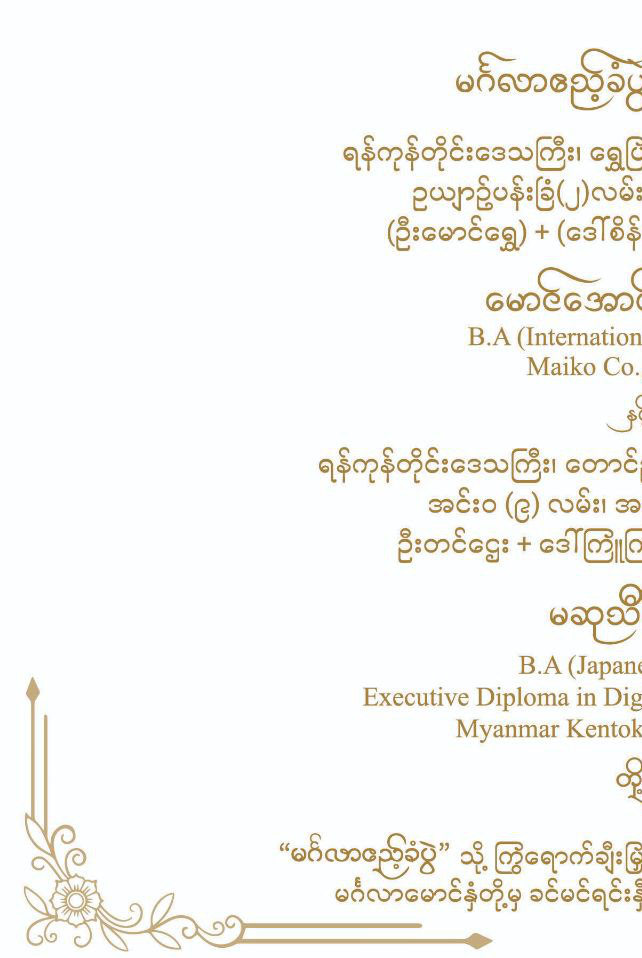
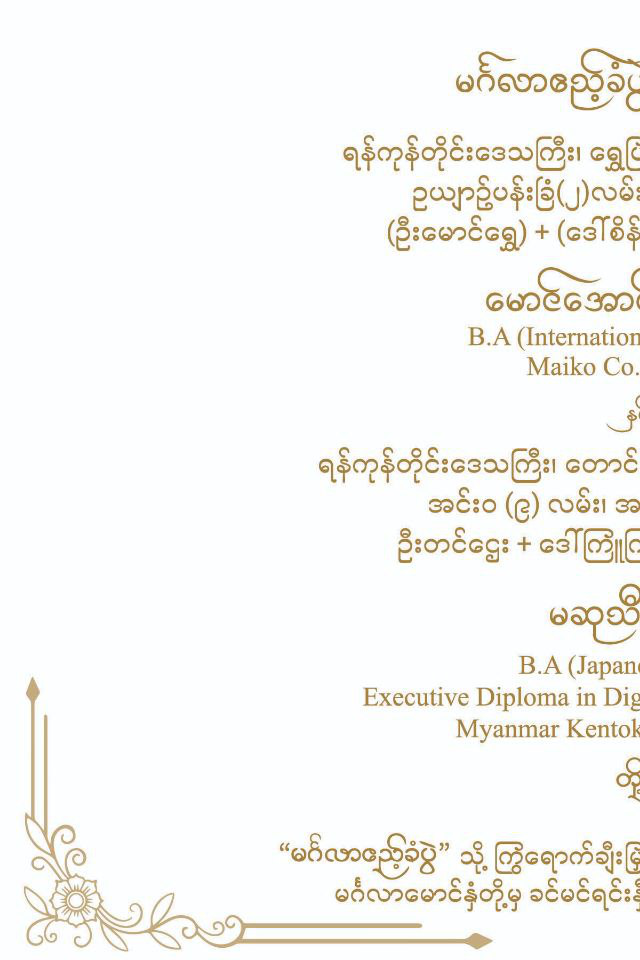
add bg

Changed region(s): [[0.5, 0.4238, 1.0, 0.8476], [0.5312, 0.0303, 1.0, 0.3935], [0.0312, 0.8476, 1.0, 0.999]]

diff --git a/src/app/app.component.ts b/src/app/app.component.ts
@@ -1,4 +1,4 @@
-import { AfterViewInit, Component, ViewChildren, QueryList, ElementRef } from '@angular/core';
+import { AfterViewInit, Component, ViewChildren, QueryList, ElementRef, ViewChild, Renderer2 } from '@angular/core';
 
 @Component({
   selector: 'app-root',
@@ -7,8 +7,11 @@ import { AfterViewInit, Component, ViewChildren, QueryList, ElementRef } from '@
 })
 export class AppComponent {
   title = 'invitation';
-  // @ViewChildren('page') pages!: QueryList<ElementRef>;
+  @ViewChild('childDiv') childDiv!: ElementRef;
+  @ViewChild('childDiv2') childDiv2!: ElementRef;
+  @ViewChild('parentDiv') parentDiv!: ElementRef;
 
+  constructor(private renderer: Renderer2){}
 
   open() {
     const element = document.getElementById('envelope');
@@ -43,45 +46,11 @@ export class AppComponent {
     audio.play();
   }
 
-
-  // images: string[] = [
-  //   '../assets/1.JPG',
-  //   '../assets/2.JPG',
-  //   '../assets/3.JPG',
-  //   '../assets/4.JPG'
-  // ];
-
-  // ngAfterViewInit() {
-  //   const pagesArray = this.pages.toArray().map(el => el.nativeElement);
-
-  //   // Set zIndex for even pages
-  //   pagesArray.forEach((page, i) => {
-  //     if (i % 2 === 0) {
-  //       page.style.zIndex = (pagesArray.length - i).toString();
-  //     }
-  //     page.dataset.pageNum = (i + 1).toString();
-  //   });
-  // }
-
-  // onPageClick(event: Event) {
-  //   const page = event.target as HTMLElement | null;
-
-  //   if (!page) return; // Ensure it's not null
-
-  //   const pageNum = Number(page.dataset['pageNum']);
-
-  //   if (pageNum % 2 === 0) {
-  //     page.classList.remove('flipped');
-  //     (page.previousElementSibling as HTMLElement)?.classList.remove('flipped');
-  //   } else {
-  //     page.classList.add('flipped');
-  //     (page.nextElementSibling as HTMLElement)?.classList.add('flipped');
-  //   }
-  // }
-
   click1() {
     const element = document.getElementById('page1');
     const element2 = document.getElementById('page2');
+
+    
 
     if (element) {
       element.classList.toggle('flipped');
@@ -90,6 +59,18 @@ export class AppComponent {
     if (element2) {
       element2.classList.remove('incz');
 
+    }
+
+    const child = this.childDiv.nativeElement;
+    const child2 = this.childDiv2.nativeElement;
+    const parent = this.parentDiv.nativeElement;
+
+    if (child.classList.contains('flipped') && !child2.classList.contains('flipped')) {
+      setTimeout(() => {
+        this.renderer.addClass(parent, 'active-parent');
+      },1000);
+    } else {
+      this.renderer.removeClass(parent, 'active-parent');
     }
   }
 
@@ -105,6 +86,18 @@ export class AppComponent {
     if (element1) {
       element1.classList.add('incz');
 
+    }
+
+    const child = this.childDiv.nativeElement;
+    const child2 = this.childDiv2.nativeElement;
+    const parent = this.parentDiv.nativeElement;
+
+    if (child.classList.contains('flipped') && child2.classList.contains('flipped')) {
+      this.renderer.removeClass(parent, 'active-parent');
+    } else {
+      setTimeout(() => {
+        this.renderer.addClass(parent, 'active-parent');
+      },1000);
     }
   }
 }

diff --git a/src/app/app.component.html b/src/app/app.component.html
@@ -20,8 +20,8 @@
     <img src="../assets/wax.png" class="wax" alt="">
     <div class="front flap"></div>
     <div class="front pocket"></div>
-    <div class="letter">
-          <div (click)="click1()" class="img1" id="page1">
+    <div class="letter" #parentDiv>
+          <div (click)="click1()" class="img1" id="page1" #childDiv>
             <div class="front">
               <img src="../assets/1.png" alt="">
               <svg width="70" height="70" viewBox="0 0 640 640" fill="none" xmlns="http://www.w3.org/2000/svg" class="hand hand2">
@@ -59,7 +59,7 @@
               </svg>
             </div>
           </div>
-          <div (click)="click2()" class="img2" id="page2">
+          <div (click)="click2()" class="img2" id="page2" #childDiv2>
             <div class="front">
               <img src="../assets/3.png" alt="">
               <svg width="70" height="70" viewBox="0 0 640 640" fill="none" xmlns="http://www.w3.org/2000/svg" class="hand hand2">

diff --git a/src/app/app.component.scss b/src/app/app.component.scss
@@ -154,7 +154,11 @@ div {
     margin-right: auto;
     border-radius: 6px;
     perspective: 1200px;
-    // background-color: #fdfeff;
+    
+
+    &.active-parent {
+      background-color: #fdfeff;
+    }
 }
 
 
@@ -193,9 +197,9 @@ div {
     transition: transform 0.9s cubic-bezier(0.645, 0.045, 0.355, 1);
     transform: rotateY(-180deg);
 
-    .back {
-      right: 1px;
-    }
+    // .back {
+    //   right: 1px;
+    // }
   }
 }
 
@@ -235,9 +239,9 @@ div {
     transform: rotateY(-180deg);
     z-index: 4;
 
-    .back {
-      right: 1px;
-    }
+    // .back {
+    //   right: 1px;
+    // }
   }
 }
 
